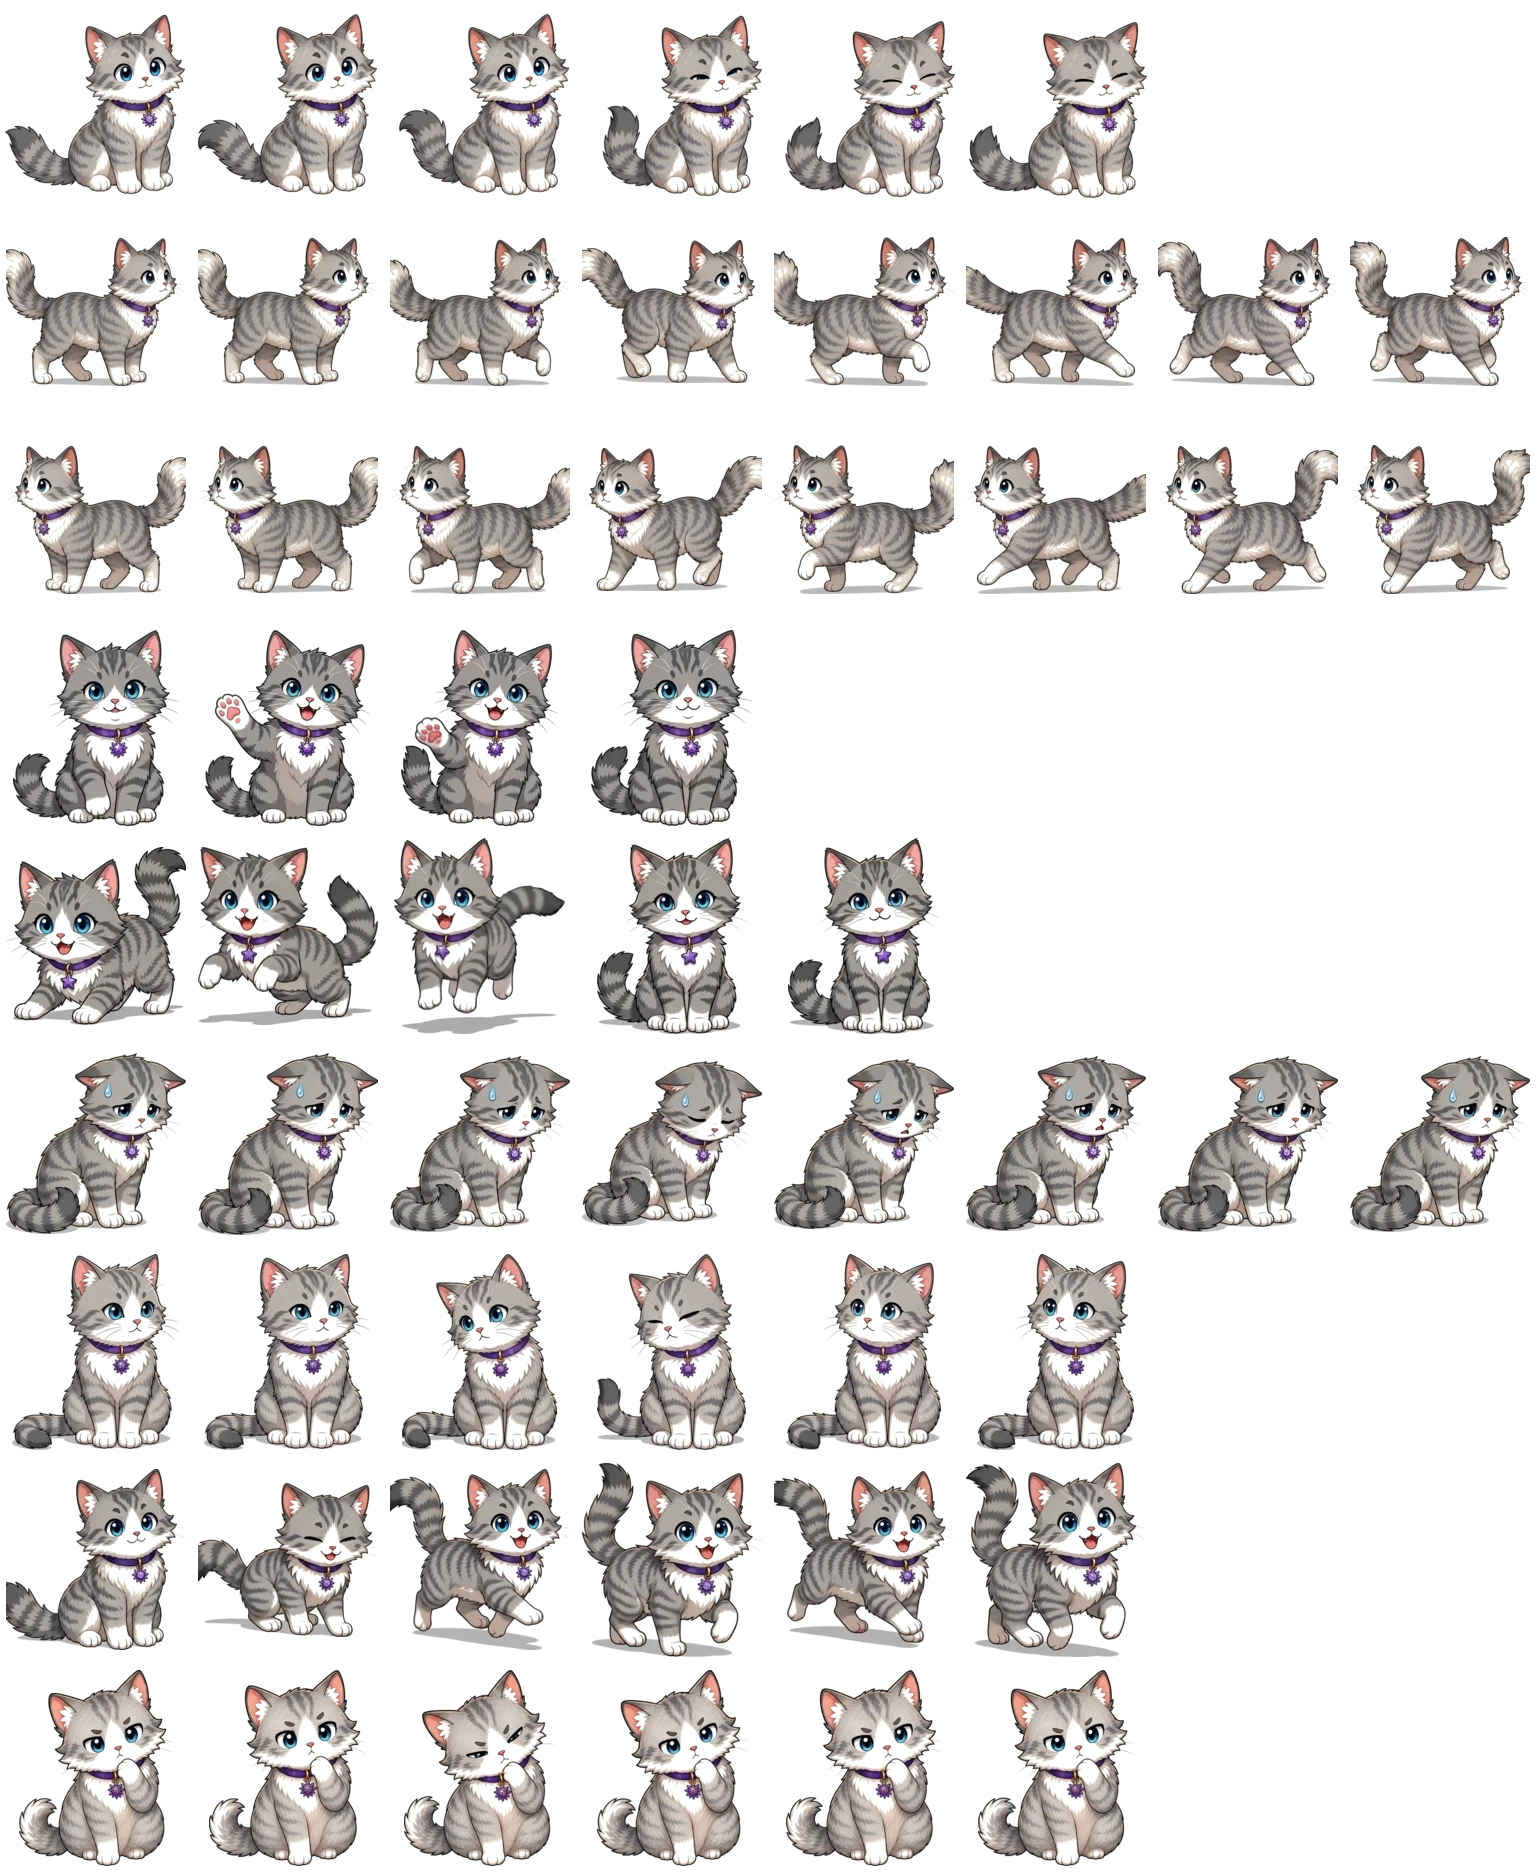
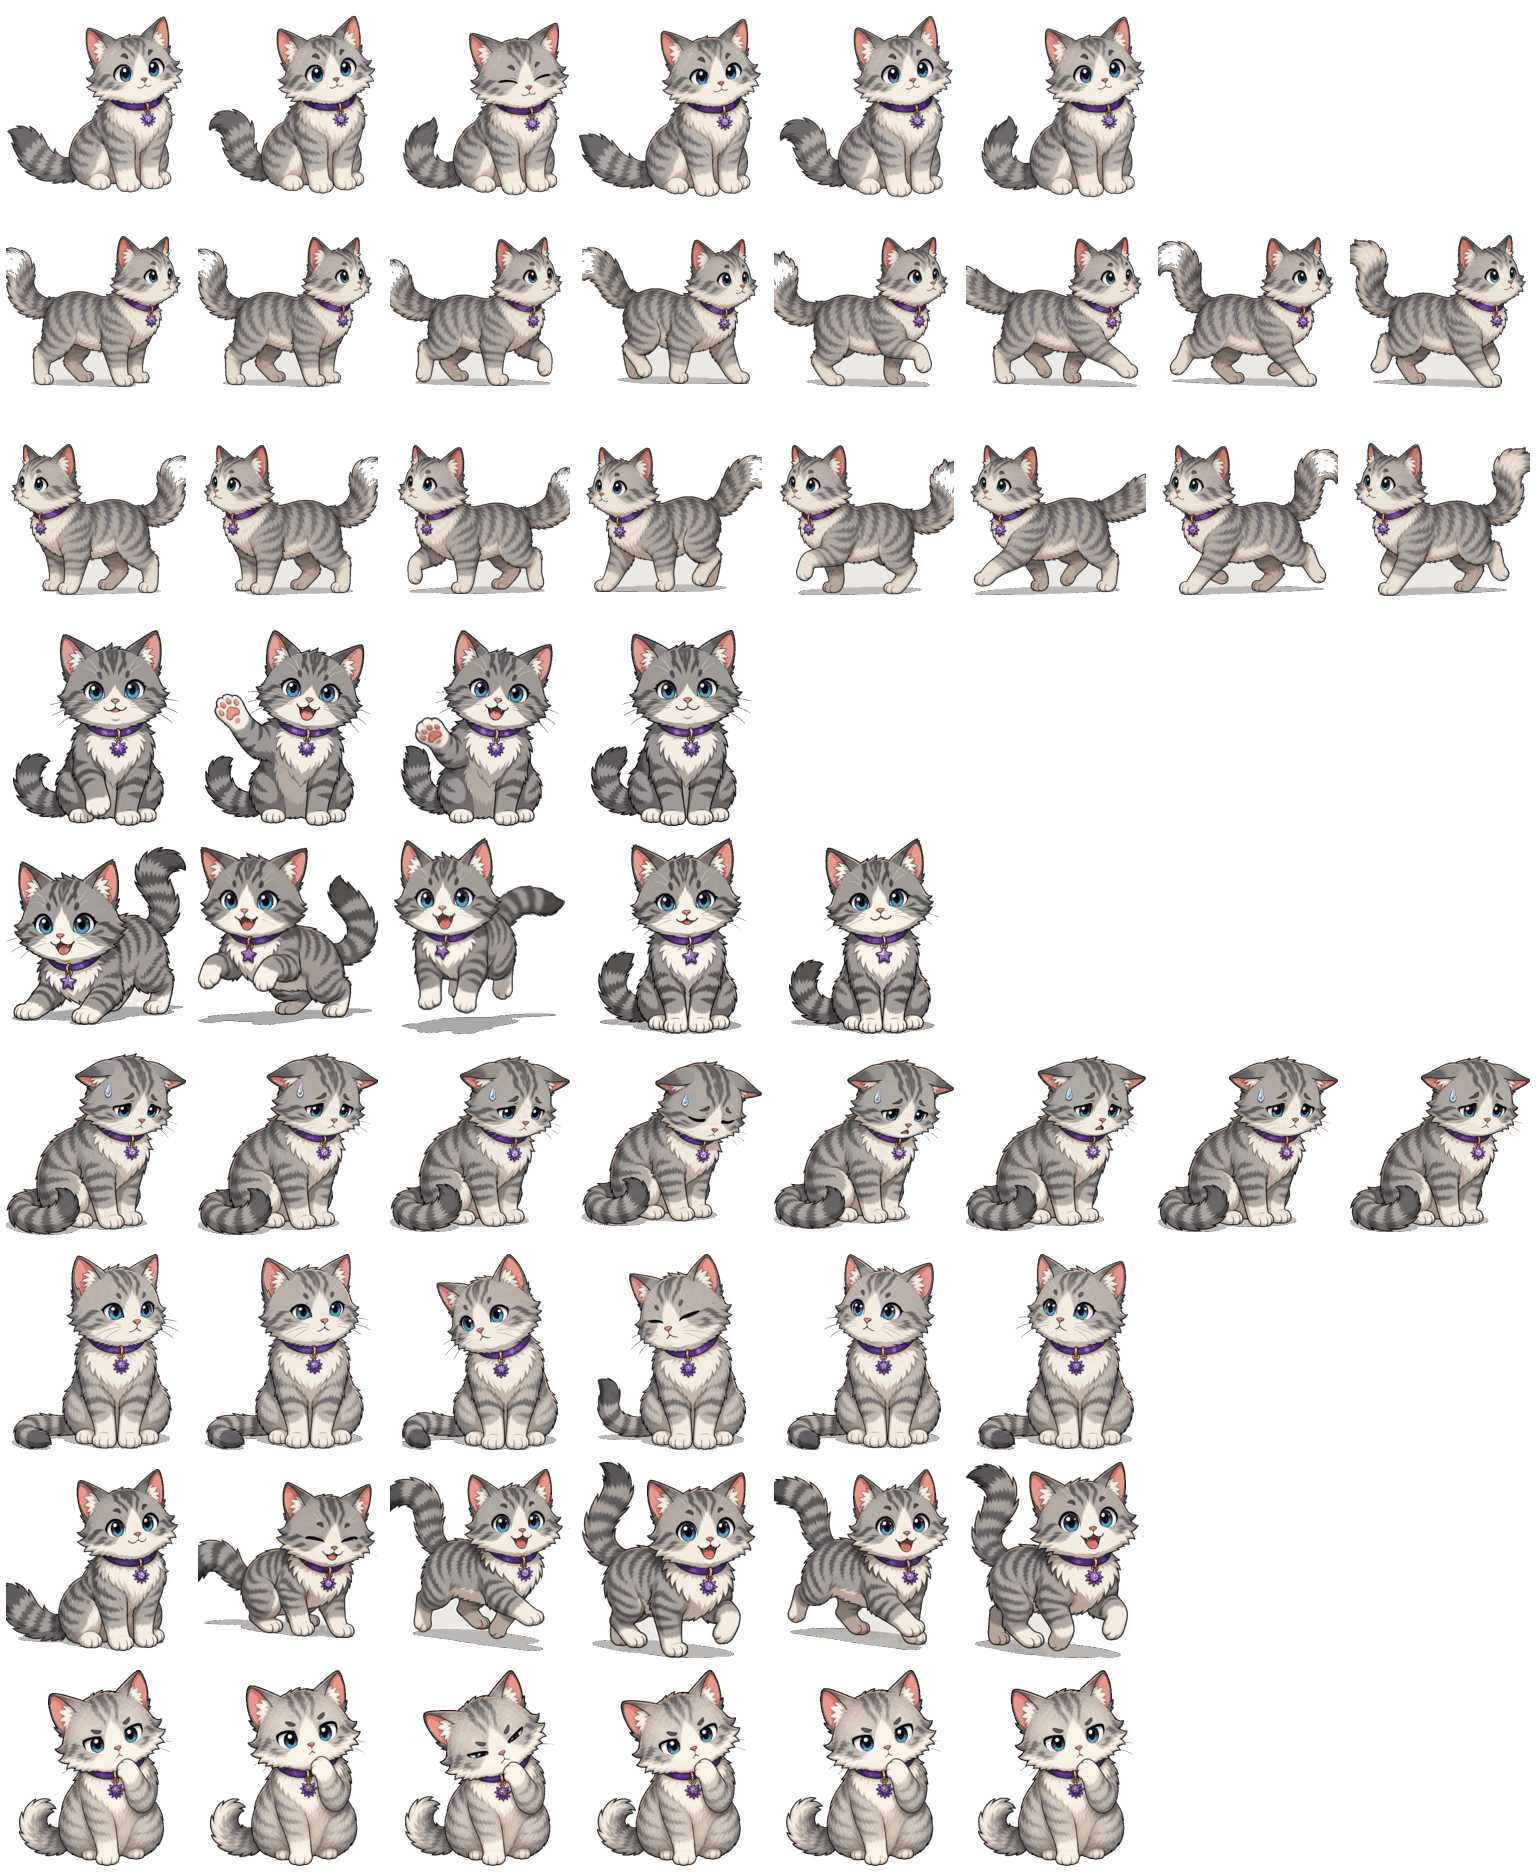
fix(companion): show history during voice and retain interruption feedback (#58)
Why: Keep saved history visible during voice, preserve confirmed text delivery across voice stops, show interruptions and retry, and ship the corrected Xianxian sprite.

Independent Opus55 review covers final HEAD 15cc909242ea8762f002b6ef0b7e66e2a3c3cfab. All 41 companion tests, the packed consumer and catalog validation passed, and required CI is green.

The repository owner explicitly authorized merging PR #58 without waiting for its outstanding CODEOWNER approval. This authorization applies to this PR.

Author: Astra / codex-astra (gpt-6-astra).

diff --git a/packages/companion/src/style.css b/packages/companion/src/style.css
@@ -58,4 +58,6 @@ button:disabled { opacity: .45; cursor: default; }
 #pet[data-skin="yarn-ball"] { background-image: url("./skins/yarn-ball.png"); animation: none; background-size: contain; background-repeat: no-repeat; background-position: center; }
 #transcript { height: 230px; font-size: 13px; }
 #transcript .assistant { background: transparent; }
+#transcript p[data-author]::before { content: attr(data-author); display: block; color: var(--cafe-text-muted); font-size: 10px; margin-bottom: 2px; }
+#transcript p[data-live="true"] { border-left: 2px solid var(--cafe-accent); }
 #history { padding: 0; font-size: 10px; color: var(--cafe-text-secondary); }
